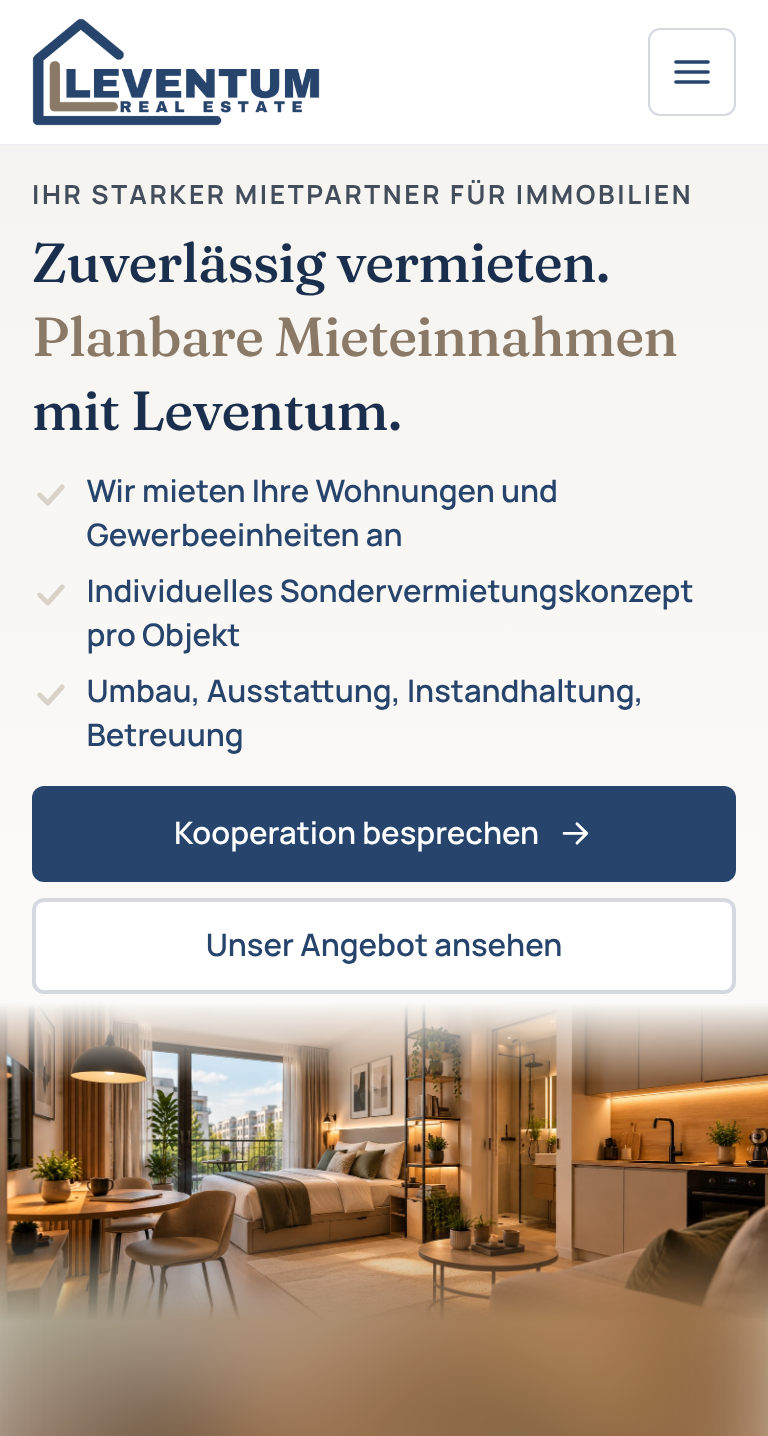
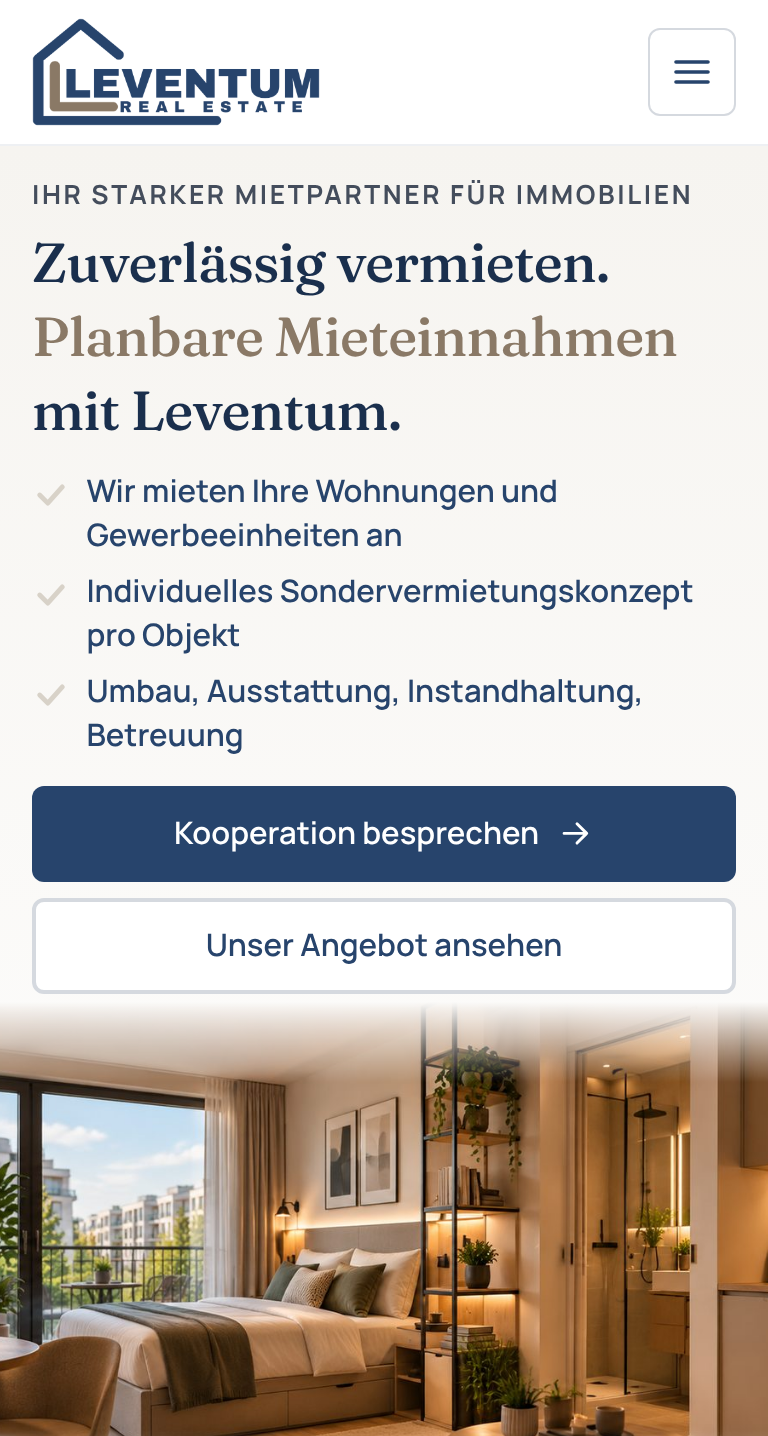
Hero-Foto höher ohne Unschärfe, Text bei Mehrfamilienhäusern ohne Silbentrennung
Claude-Session: https://claude.ai/code/session_01KEcscF8ABiEHPf9rzLQ9PG

Changed region(s): [[0.0, 0.7047, 1.0, 1.0]]

diff --git a/css/sections.css b/css/sections.css
@@ -428,12 +428,6 @@
 .rot-item, .hero h1 .ln > span { white-space: nowrap; }
 @media (max-width: 760px) { .hero h1 { font-size: min(1.72rem, 7.9cqw); } }
 
-/* Hero-Bild bis 1100 px: vollständig (kein Zuschnitt), randlos über die ganze Breite */
-@media (max-width: 1100px) {
-  .hero-visual { margin-inline: -16px; }
-  .hero-figure { aspect-ratio: 1600 / 667; -webkit-mask-image: linear-gradient(to bottom, transparent 0, #000 22%, #000 74%, transparent 100%); mask-image: linear-gradient(to bottom, transparent 0, #000 22%, #000 74%, transparent 100%); -webkit-mask-composite: source-over; mask-composite: add; }
-  .hero-figure img { transform: none; object-fit: cover; }
-}
 
 .hero h1 .ln-end { margin-top: 0.15em; }
 
@@ -443,13 +437,11 @@
 .model-head h2 .ln-block { white-space: nowrap; }
 @media (max-width: 900px) { .model-head h2 { font-size: min(1.55rem, 7.3cqw); } }
 
-/* Hero bis 1100 px: füllt die erste Bildschirmhöhe. Das Foto bleibt vollständig; darunter läuft es unscharf aus. */
+
+/* Hero-Bild bis 1100 px: randlos über die ganze Breite, nach unten verlängert (Foto füllt die Fläche, ohne Unschärfe) */
 @media (max-width: 1100px) {
-  .hero { min-height: calc(100vh - var(--header-h) + 100px); min-height: calc(100lvh - var(--header-h) + 100px); display: flex; flex-direction: column; }
-  .hero > .hero-grid { flex: 1; grid-template-rows: auto 1fr; }
-  .hero-visual { align-self: stretch; min-height: calc(100vw * 667 / 1600); }
-  .hero-figure { position: absolute; inset: 0; aspect-ratio: auto; -webkit-mask-image: linear-gradient(to bottom, transparent 0, #000 40px, #000 calc(100% - 80px), transparent 100%); mask-image: linear-gradient(to bottom, transparent 0, #000 40px, #000 calc(100% - 80px), transparent 100%); }
-  .hero-figure::before { content: ""; position: absolute; inset: -24px; background: url("../assets/img/hero-wohnung.jpg") 50% 100% / cover no-repeat; filter: blur(30px) saturate(1.05); opacity: 0.85; }
-  .hero-figure::after { content: ""; position: absolute; inset: 0; background: linear-gradient(to bottom, transparent 240px, rgba(246, 244, 240, 0.8) 100%); pointer-events: none; }
-  .hero-figure img { position: absolute; top: 0; left: 0; width: 100%; height: auto; aspect-ratio: 1600 / 667; -webkit-mask-image: linear-gradient(to bottom, #000 72%, transparent 100%); mask-image: linear-gradient(to bottom, #000 72%, transparent 100%); }
+  .hero-visual { margin-inline: -16px; }
+  .hero-figure { aspect-ratio: 27 / 20; -webkit-mask-image: linear-gradient(to bottom, transparent 0, #000 40px, #000 calc(100% - 70px), transparent 100%); mask-image: linear-gradient(to bottom, transparent 0, #000 40px, #000 calc(100% - 70px), transparent 100%); -webkit-mask-composite: source-over; mask-composite: add; }
+  .hero-figure img { transform: none; width: 100%; height: 100%; object-fit: cover; object-position: 50% 55%; }
 }
+@media (min-width: 600px) and (max-width: 1100px) { .hero-figure { aspect-ratio: 1600 / 667; } }

diff --git a/index.html b/index.html
@@ -27,9 +27,9 @@
   <link rel="preload" href="assets/fonts/fraunces-latin-wght-normal.woff2" as="font" type="font/woff2" crossorigin>
   <link rel="preload" href="assets/fonts/manrope-latin-wght-normal.woff2" as="font" type="font/woff2" crossorigin>
   <link rel="stylesheet" href="css/tokens.css?v=89aeff11">
-  <link rel="stylesheet" href="css/base.css?v=f26ed30c">
+  <link rel="stylesheet" href="css/base.css?v=e09bdd14">
   <link rel="stylesheet" href="css/components.css?v=ea470df2">
-  <link rel="stylesheet" href="css/sections.css?v=a0530cd1">
+  <link rel="stylesheet" href="css/sections.css?v=44cb8596">
   <script>document.documentElement.classList.add('js');</script>
 </head>
 <body>
@@ -329,7 +329,7 @@
             <img src="assets/img/objekt-mehrfamilienhaus.jpg" width="1200" height="800" loading="lazy" alt="Gepflegtes Mehrfamilienhaus mit heller Fassade, Balkonen und beleuchtetem Erdgeschoss mit LEVENTUM-Beschriftung am Fenster">
             <div class="type-body">
               <h3>Mehrfamilienhäuser</h3>
-              <p>Einheitliches Konzept, soweit für das Gebäude geeignet.</p>
+              <p>Ein Konzept für das ganze Haus, soweit geeignet.</p>
               <ul class="dot-list">
                 <li>Mehrere Wohnungen in einem Gebäude</li>
                 <li>Gebündelte Ausstattung und Organisation</li>

diff --git a/datenschutz.html b/datenschutz.html
@@ -9,9 +9,9 @@
   <link rel="preload" href="assets/fonts/fraunces-latin-wght-normal.woff2" as="font" type="font/woff2" crossorigin>
   <link rel="preload" href="assets/fonts/manrope-latin-wght-normal.woff2" as="font" type="font/woff2" crossorigin>
   <link rel="stylesheet" href="css/tokens.css?v=89aeff11">
-  <link rel="stylesheet" href="css/base.css?v=f26ed30c">
+  <link rel="stylesheet" href="css/base.css?v=e09bdd14">
   <link rel="stylesheet" href="css/components.css?v=ea470df2">
-  <link rel="stylesheet" href="css/sections.css?v=a0530cd1">
+  <link rel="stylesheet" href="css/sections.css?v=44cb8596">
 </head>
 <body>
   <header class="site-header"><div class="container header-inner">

diff --git a/impressum.html b/impressum.html
@@ -9,9 +9,9 @@
   <link rel="preload" href="assets/fonts/fraunces-latin-wght-normal.woff2" as="font" type="font/woff2" crossorigin>
   <link rel="preload" href="assets/fonts/manrope-latin-wght-normal.woff2" as="font" type="font/woff2" crossorigin>
   <link rel="stylesheet" href="css/tokens.css?v=89aeff11">
-  <link rel="stylesheet" href="css/base.css?v=f26ed30c">
+  <link rel="stylesheet" href="css/base.css?v=e09bdd14">
   <link rel="stylesheet" href="css/components.css?v=ea470df2">
-  <link rel="stylesheet" href="css/sections.css?v=a0530cd1">
+  <link rel="stylesheet" href="css/sections.css?v=44cb8596">
 </head>
 <body>
   <header class="site-header"><div class="container header-inner">

diff --git a/css/base.css b/css/base.css
@@ -31,4 +31,5 @@ section[id], [id="kontaktformular"], [id="kontaktdaten"] { scroll-margin-top: ca
 .skip-link { position: absolute; left: 8px; top: -60px; z-index: 100; background: var(--navy-800); color: #fff; padding: 10px 16px; border-radius: var(--radius-sm); }
 .skip-link:focus { top: 8px; }
 
-h3, .card p, .type-body { hyphens: auto; }
+h3, .card p { hyphens: auto; }
+.type-body, .type-body * { hyphens: manual; }
